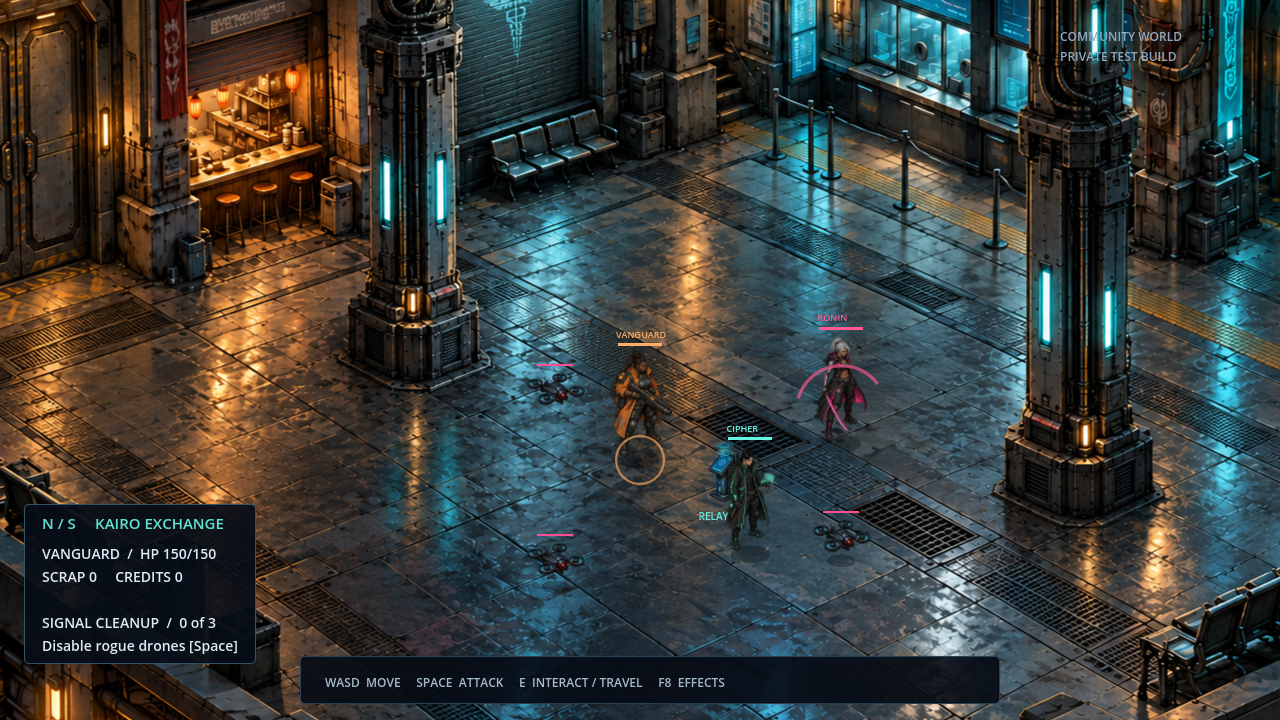
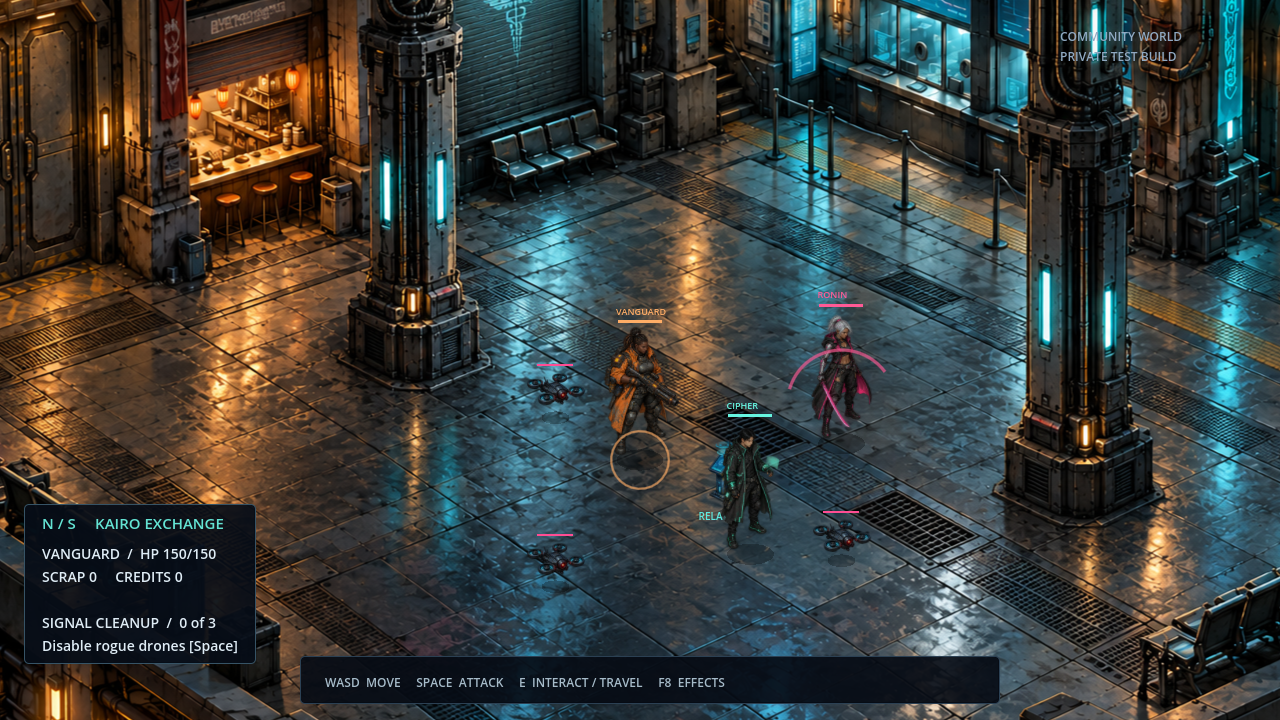
Increase character preview scale to 137 pixels

Changed region(s): [[0.4688, 0.4278, 0.5312, 0.6722], [0.625, 0.3972, 0.6875, 0.6111], [0.5625, 0.55, 0.625, 0.7639]]

diff --git a/docs/screenshots/README.md b/docs/screenshots/README.md
@@ -4,7 +4,7 @@ The active areas are **Kairo Exchange and its connected Maintenance Bay**, with 
 
 These are actual Godot renders with dynamic game actors. They are staged visual captures; real multiplayer combat and persistence were tested separately.
 
-Characters are now **50% larger** (114 pixels tall), with matching foot shadows and selection rings, raised labels, and adjusted column fading. These previews show the updated scale in both rooms.
+Characters are now **another 20% larger** (137 pixels tall), with matching foot shadows and selection rings, raised labels, and adjusted column fading. These previews show the updated scale in both rooms.
 
 ## Maintenance Bay
 
